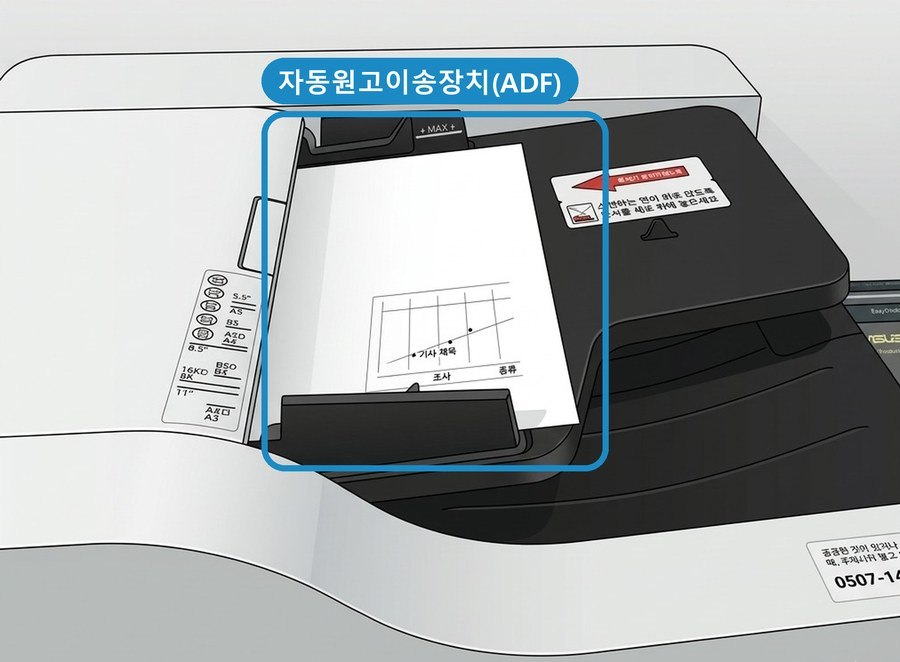
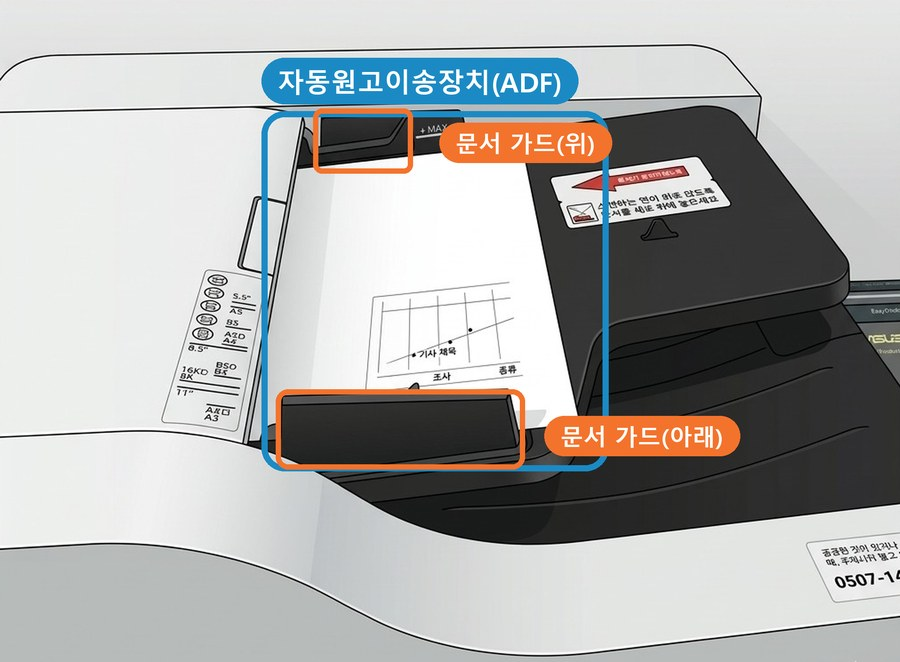
feat: ADF 사진에 문서 가드 위치 표시, 원본을 가드에 맞춰 반듯하게 넣으라는 안내 추가

Changed region(s): [[0.3111, 0.574, 0.84, 0.7251], [0.3422, 0.1511, 0.6844, 0.2719], [0.28, 0.6042, 0.3111, 0.6949]]

diff --git a/guide-fax.html b/guide-fax.html
@@ -287,6 +287,8 @@ footer{background:#111827;color:rgba(255,255,255,.55);padding:60px 6%}
 .adf-fig img{display:block;width:100%;max-width:520px;height:auto;border-radius:10px;border:1px solid #F3C3BF;background:#fff}
 .adf-fig figcaption{margin-top:8px;font-size:13.6px;line-height:1.65;color:var(--text2)}
 .adf-fig figcaption b{color:var(--text);font-weight:900}
+.adf-fig figcaption .gd{display:block;margin-top:8px;padding:9px 12px;background:#FFF4EC;border:1px solid #F8CFB1;border-radius:8px;color:#7A3410}
+.adf-fig figcaption .gd b{color:#B4500F}
 </style>
 </head>
 <body>
@@ -351,7 +353,7 @@ footer{background:#111827;color:rgba(255,255,255,.55);padding:60px 6%}
         <div class="step-no">1</div>
         <div class="step-fig"><img src="adf_nb.jpg" alt="자동원고이송장치(ADF)에 원본 넣는 모습" style="width:100%;max-width:210px;border-radius:8px;border:1px solid var(--border)"></div>
         <div class="step-h">복합기에 원본 놓기</div>
-        <p class="step-p">위쪽 <b>자동원고이송장치(ADF)</b>에 <b>내용이 보이게</b> 올리고, <b>왼쪽으로 더 이상 들어가지 않을 때까지</b> 깊숙히 밀어 넣으세요.<br><span class="r">살짝만 넣으면 문서가 빨려 들어가지 않아 <b>상대방이 내용 없이 백지만 받을 수 있습니다.</b></span><br><br>급지대의 <b>위 · 아래 가드를 문서 크기에 딱 맞게</b> 붙여 주세요. 가드가 헐거우면 문서가 비뚤게 들어가 <span class="r">상대방에게 비뚤어진 채로 전송됩니다.</span><br><br>여러 장이면 잘 간추려 한 번에 넣습니다 (<span class="r">최대 30장</span>).<br><br><span class="r">정상 작동되면 원본이 복합기 안으로 들어갔다 다시 나옵니다. 안 들어가면 결제하지 마세요.</span><br><br>신분증 · 통장 · 여권 · 책 · 구겨진 종이는 <b>유리평판</b>에 올려놓으세요 (왼쪽 윗 모서리 하얀색 화살표 기준).</p>
+        <p class="step-p">위쪽 <b>자동원고이송장치(ADF)</b>에 <b>내용이 보이게</b> 올리고, <b>왼쪽으로 더 이상 들어가지 않을 때까지</b> 깊숙히 밀어 넣으세요.<br><span class="r">살짝만 넣으면 문서가 빨려 들어가지 않아 <b>상대방이 내용 없이 백지만 받을 수 있습니다.</b></span><br><br>급지대의 <b>위 · 아래 문서 가드를 원본 크기에 딱 맞게</b> 붙여 주세요. 가드가 헐거우면 문서가 비뚤게 들어가 <span class="r">상대방에게 비뚤어진 채로 전송됩니다.</span><br><br>여러 장이면 잘 간추려 한 번에 넣습니다 (<span class="r">최대 30장</span>).<br><br><span class="r">정상 작동되면 원본이 복합기 안으로 들어갔다 다시 나옵니다. 안 들어가면 결제하지 마세요.</span><br><br>신분증 · 통장 · 여권 · 책 · 구겨진 종이는 <b>유리평판</b>에 올려놓으세요 (왼쪽 윗 모서리 하얀색 화살표 기준).</p>
       </div>
       <div class="step">
         <div class="step-no">2</div>
@@ -411,7 +413,7 @@ footer{background:#111827;color:rgba(255,255,255,.55);padding:60px 6%}
       <div class="adfw-h"><span class="x">!</span>자동원고이송장치(ADF)에 넣으면 안 되는 원본이 있습니다</div>
       <figure class="adf-fig">
         <img src="images/common/adf-feeder.jpg" alt="복합기 위쪽 자동원고이송장치(ADF) — 종이가 올려진 급지대 부분" loading="lazy">
-        <figcaption>📌 사진에서 <b>종이가 놓여 있는 파란 테두리 부분</b>이 <b>자동원고이송장치(ADF)</b>입니다.<br>복사 · 스캔 · 팩스 할 때 낱장 원본을 올려놓는 곳이에요.</figcaption>
+        <figcaption>📌 사진에서 <b>종이가 놓여 있는 파란 테두리 부분</b>이 <b>자동원고이송장치(ADF)</b>입니다.<br>복사 · 스캔 · 팩스 할 때 낱장 원본을 올려놓는 곳이에요.<br><span class="gd">📏 원본의 <b>위 · 아래를 막고 있는 주황색 부분이 '문서 가드'</b>입니다. 원본을 올린 뒤 <b>위 · 아래 문서 가드를 원본 크기에 딱 맞게 붙여서</b>, 원본이 삐뚤어지게 들어가지 않도록 반듯하게 맞춰 주세요.</span></figcaption>
       </figure>
       <div class="adfw-grid">
         <div class="adfw-box ok">

diff --git a/guide-copy.html b/guide-copy.html
@@ -287,6 +287,8 @@ footer{background:#111827;color:rgba(255,255,255,.55);padding:60px 6%}
 .adf-fig img{display:block;width:100%;max-width:520px;height:auto;border-radius:10px;border:1px solid #F3C3BF;background:#fff}
 .adf-fig figcaption{margin-top:8px;font-size:13.6px;line-height:1.65;color:var(--text2)}
 .adf-fig figcaption b{color:var(--text);font-weight:900}
+.adf-fig figcaption .gd{display:block;margin-top:8px;padding:9px 12px;background:#FFF4EC;border:1px solid #F8CFB1;border-radius:8px;color:#7A3410}
+.adf-fig figcaption .gd b{color:#B4500F}
 </style>
 </head>
 <body>
@@ -359,7 +361,7 @@ footer{background:#111827;color:rgba(255,255,255,.55);padding:60px 6%}
         <div class="step-no">1</div>
         <div class="step-fig"><img src="adf_nb.jpg" alt="자동원고이송장치(ADF)에 원본 넣는 모습" style="width:100%;max-width:210px;border-radius:8px;border:1px solid var(--border)"></div>
         <div class="step-h">복합기에 원본 놓기</div>
-        <p class="step-p">위쪽 <b>자동원고이송장치(ADF)</b>에 <b>내용이 보이게</b> 올리고, <b>왼쪽으로 더 이상 들어가지 않을 때까지</b> 깊숙히 밀어 넣으세요.<br><span class="r">살짝만 넣으면 문서가 빨려 들어가지 않아 백지가 나옵니다.</span><br><br>급지대의 <b>위 · 아래 가드를 문서 크기에 딱 맞게</b> 붙여 주세요. 가드가 헐거우면 문서가 비뚤게 들어가 <span class="r">복사 · 스캔 결과가 삐뚤어집니다.</span><br><br>여러 장이면 잘 간추려 한 번에 넣습니다 (최대 100장).<br><br><span class="r">정상 작동되면 원본이 복합기 안으로 들어갔다 다시 나옵니다. 안 들어가면 결제하지 마세요.</span><br><br>신분증 · 통장 · 여권 · 책 · 구겨진 종이는 <b>유리평판</b>에 올려놓으세요 (왼쪽 윗 모서리 하얀색 화살표 기준).</p>
+        <p class="step-p">위쪽 <b>자동원고이송장치(ADF)</b>에 <b>내용이 보이게</b> 올리고, <b>왼쪽으로 더 이상 들어가지 않을 때까지</b> 깊숙히 밀어 넣으세요.<br><span class="r">살짝만 넣으면 문서가 빨려 들어가지 않아 백지가 나옵니다.</span><br><br>급지대의 <b>위 · 아래 문서 가드를 원본 크기에 딱 맞게</b> 붙여 주세요. 가드가 헐거우면 문서가 비뚤게 들어가 <span class="r">복사 · 스캔 결과가 삐뚤어집니다.</span><br><br>여러 장이면 잘 간추려 한 번에 넣습니다 (최대 100장).<br><br><span class="r">정상 작동되면 원본이 복합기 안으로 들어갔다 다시 나옵니다. 안 들어가면 결제하지 마세요.</span><br><br>신분증 · 통장 · 여권 · 책 · 구겨진 종이는 <b>유리평판</b>에 올려놓으세요 (왼쪽 윗 모서리 하얀색 화살표 기준).</p>
       </div>
       <div class="step">
         <div class="step-no">2</div>
@@ -425,7 +427,7 @@ footer{background:#111827;color:rgba(255,255,255,.55);padding:60px 6%}
       <div class="adfw-h"><span class="x">!</span>자동원고이송장치(ADF)에 넣으면 안 되는 원본이 있습니다</div>
       <figure class="adf-fig">
         <img src="images/common/adf-feeder.jpg" alt="복합기 위쪽 자동원고이송장치(ADF) — 종이가 올려진 급지대 부분" loading="lazy">
-        <figcaption>📌 사진에서 <b>종이가 놓여 있는 파란 테두리 부분</b>이 <b>자동원고이송장치(ADF)</b>입니다.<br>복사 · 스캔 · 팩스 할 때 낱장 원본을 올려놓는 곳이에요.</figcaption>
+        <figcaption>📌 사진에서 <b>종이가 놓여 있는 파란 테두리 부분</b>이 <b>자동원고이송장치(ADF)</b>입니다.<br>복사 · 스캔 · 팩스 할 때 낱장 원본을 올려놓는 곳이에요.<br><span class="gd">📏 원본의 <b>위 · 아래를 막고 있는 주황색 부분이 '문서 가드'</b>입니다. 원본을 올린 뒤 <b>위 · 아래 문서 가드를 원본 크기에 딱 맞게 붙여서</b>, 원본이 삐뚤어지게 들어가지 않도록 반듯하게 맞춰 주세요.</span></figcaption>
       </figure>
       <div class="adfw-grid">
         <div class="adfw-box ok">

diff --git a/guide-scan.html b/guide-scan.html
@@ -287,6 +287,8 @@ footer{background:#111827;color:rgba(255,255,255,.55);padding:60px 6%}
 .adf-fig img{display:block;width:100%;max-width:520px;height:auto;border-radius:10px;border:1px solid #F3C3BF;background:#fff}
 .adf-fig figcaption{margin-top:8px;font-size:13.6px;line-height:1.65;color:var(--text2)}
 .adf-fig figcaption b{color:var(--text);font-weight:900}
+.adf-fig figcaption .gd{display:block;margin-top:8px;padding:9px 12px;background:#FFF4EC;border:1px solid #F8CFB1;border-radius:8px;color:#7A3410}
+.adf-fig figcaption .gd b{color:#B4500F}
 </style>
 </head>
 <body>
@@ -350,7 +352,7 @@ footer{background:#111827;color:rgba(255,255,255,.55);padding:60px 6%}
         <div class="step-no">1</div>
         <div class="step-fig"><img src="adf_nb.jpg" alt="자동원고이송장치(ADF)에 원본 넣는 모습" style="width:100%;max-width:210px;border-radius:8px;border:1px solid var(--border)"></div>
         <div class="step-h">복합기에 원본 놓기</div>
-        <p class="step-p">위쪽 <b>자동원고이송장치(ADF)</b>에 <b>내용이 보이게</b> 올리고, <b>왼쪽으로 더 이상 들어가지 않을 때까지</b> 깊숙히 밀어 넣으세요.<br><span class="r">살짝만 넣으면 문서가 빨려 들어가지 않아 백지가 나옵니다.</span><br><br>급지대의 <b>위 · 아래 가드를 문서 크기에 딱 맞게</b> 붙여 주세요. 가드가 헐거우면 문서가 비뚤게 들어가 <span class="r">복사 · 스캔 결과가 삐뚤어집니다.</span><br><br>여러 장이면 잘 간추려 한 번에 넣습니다 (최대 100장).<br><br><span class="r">정상 작동되면 원본이 복합기 안으로 들어갔다 다시 나옵니다. 안 들어가면 결제하지 마세요.</span><br><br>신분증 · 통장 · 여권 · 책 · 구겨진 종이는 <b>유리평판</b>에 올려놓으세요 (왼쪽 윗 모서리 하얀색 화살표 기준).</p>
+        <p class="step-p">위쪽 <b>자동원고이송장치(ADF)</b>에 <b>내용이 보이게</b> 올리고, <b>왼쪽으로 더 이상 들어가지 않을 때까지</b> 깊숙히 밀어 넣으세요.<br><span class="r">살짝만 넣으면 문서가 빨려 들어가지 않아 백지가 나옵니다.</span><br><br>급지대의 <b>위 · 아래 문서 가드를 원본 크기에 딱 맞게</b> 붙여 주세요. 가드가 헐거우면 문서가 비뚤게 들어가 <span class="r">복사 · 스캔 결과가 삐뚤어집니다.</span><br><br>여러 장이면 잘 간추려 한 번에 넣습니다 (최대 100장).<br><br><span class="r">정상 작동되면 원본이 복합기 안으로 들어갔다 다시 나옵니다. 안 들어가면 결제하지 마세요.</span><br><br>신분증 · 통장 · 여권 · 책 · 구겨진 종이는 <b>유리평판</b>에 올려놓으세요 (왼쪽 윗 모서리 하얀색 화살표 기준).</p>
       </div>
       <div class="step">
         <div class="step-no">2</div>
@@ -417,7 +419,7 @@ footer{background:#111827;color:rgba(255,255,255,.55);padding:60px 6%}
       <div class="adfw-h"><span class="x">!</span>자동원고이송장치(ADF)에 넣으면 안 되는 원본이 있습니다</div>
       <figure class="adf-fig">
         <img src="images/common/adf-feeder.jpg" alt="복합기 위쪽 자동원고이송장치(ADF) — 종이가 올려진 급지대 부분" loading="lazy">
-        <figcaption>📌 사진에서 <b>종이가 놓여 있는 파란 테두리 부분</b>이 <b>자동원고이송장치(ADF)</b>입니다.<br>복사 · 스캔 · 팩스 할 때 낱장 원본을 올려놓는 곳이에요.</figcaption>
+        <figcaption>📌 사진에서 <b>종이가 놓여 있는 파란 테두리 부분</b>이 <b>자동원고이송장치(ADF)</b>입니다.<br>복사 · 스캔 · 팩스 할 때 낱장 원본을 올려놓는 곳이에요.<br><span class="gd">📏 원본의 <b>위 · 아래를 막고 있는 주황색 부분이 '문서 가드'</b>입니다. 원본을 올린 뒤 <b>위 · 아래 문서 가드를 원본 크기에 딱 맞게 붙여서</b>, 원본이 삐뚤어지게 들어가지 않도록 반듯하게 맞춰 주세요.</span></figcaption>
       </figure>
       <div class="adfw-grid">
         <div class="adfw-box ok">
